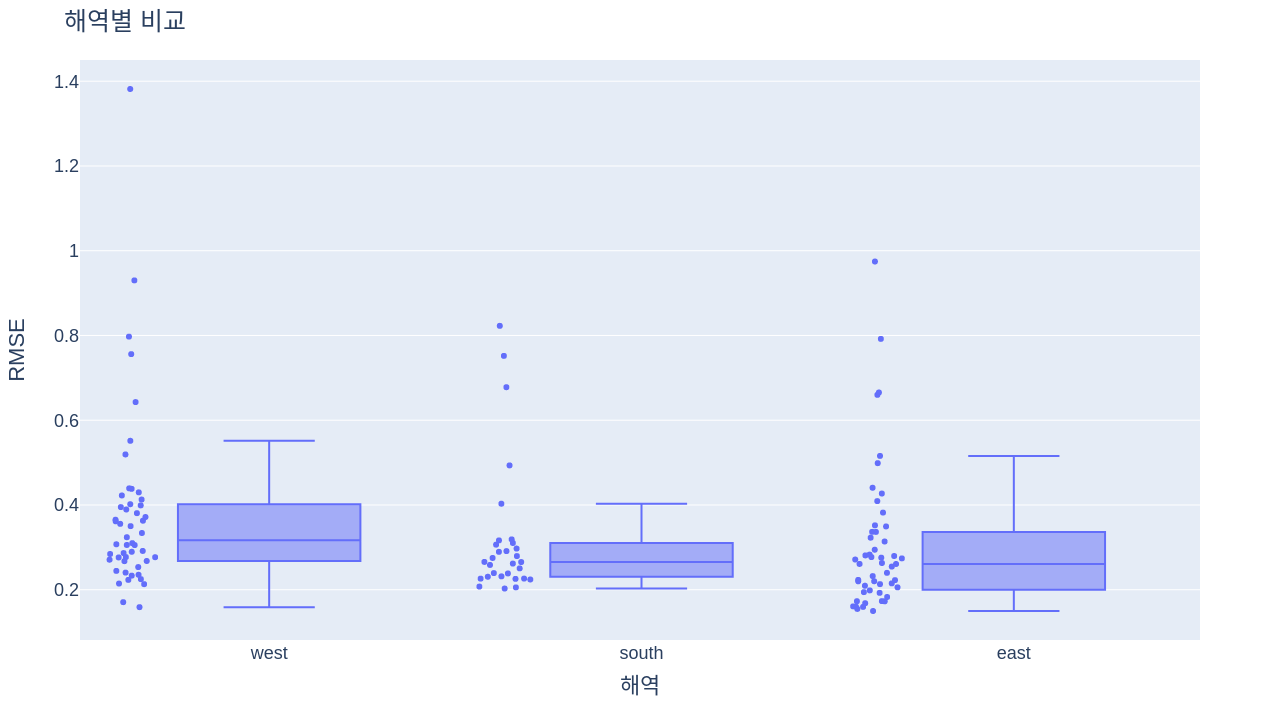
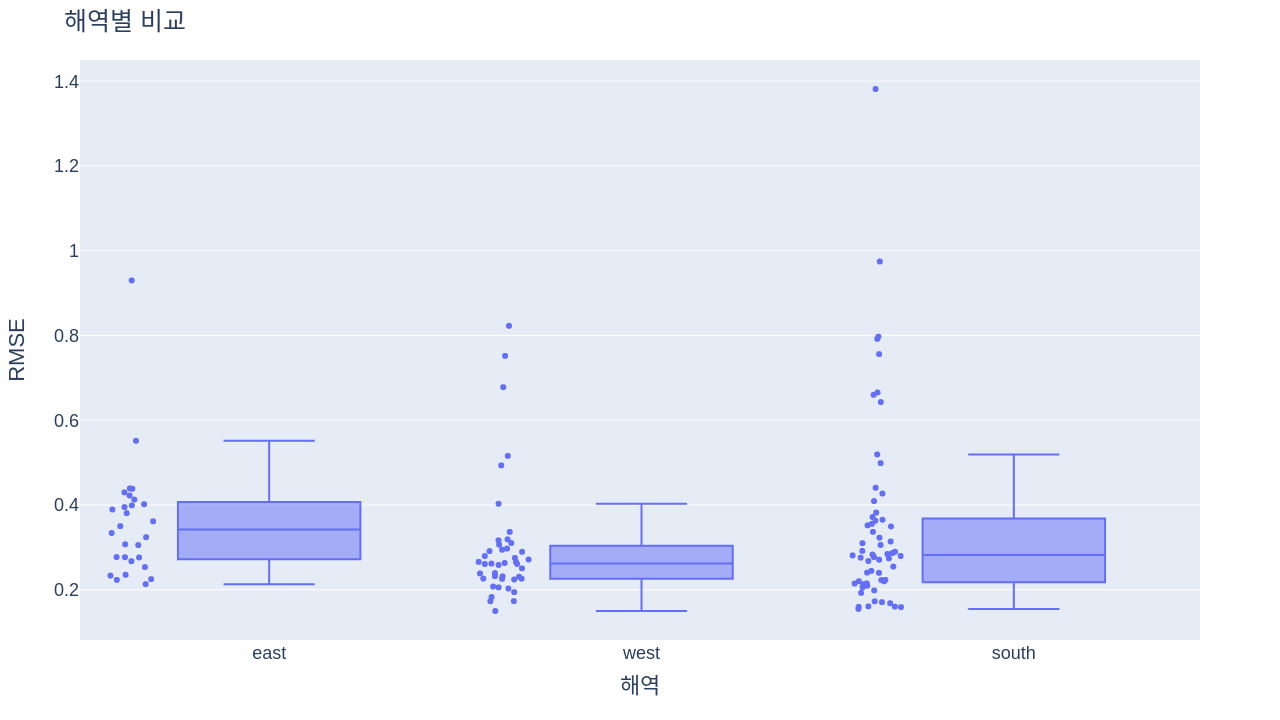
update plotting script task/stemgnn/step4

diff --git a/task/stemgnn/step4_plot.py b/task/stemgnn/step4_plot.py
@@ -26,6 +26,10 @@ import plotly.express as px
 import plotly.graph_objects as go
 from omegaconf import OmegaConf
 from sklearn.metrics import *
+import geopandas as gpd
+from libpysal.weights.contiguity import Queen
+from libpysal import examples
+import splot
 
 cfg = OmegaConf.load('conf/config.yml')
 
@@ -60,15 +64,15 @@ gdf = (
     .assign(ssid = lambda df: df.stype + '_' + df.sid)
 )
 
-kmeans = KMeans(n_clusters=3, random_state=0).fit(
-    gdf[['Latitude', 'Longitude']]
-)
-gdf['label'] = kmeans.labels_
-gdf['label'] = gdf['label'].map({
-    0: 'west',
-    1: 'south',
-    2: 'east'
-})
+# kmeans = KMeans(n_clusters=3, random_state=0).fit(
+#     gdf[['Latitude', 'Longitude']]
+# )
+# gdf['sea_area'] = kmeans.labels_
+# gdf['sea_area'] = gdf['sea_area'].map({
+#     0: 'west',
+#     1: 'south',
+#     2: 'east'
+# })
 
 
 ssid_rmse = (
@@ -77,13 +81,12 @@ ssid_rmse = (
     .reset_index()
     .rename(columns=dict(index='ssid')))
 
-
 ssid_rmse = ssid_rmse.merge(gdf, how='left', on ='ssid').dropna()
 
 # fig = px.violin(pdf, y="vis_khoa", x="vis_sijung",  box=True, points="outliers")
 fig = px.box(
     ssid_rmse,
-    x="label", 
+    x="sea_area", 
     y="rmse",
     width=1280, height=720,
     points="all",
@@ -120,32 +123,59 @@ fig.write_image(
 #  시계열 그림
 # morans plot
 
-ssid_rmse.groupby('label')['ssid'].sample(1).tolist()
+selected_ssids = ssid_rmse.groupby('sea_area')['ssid'].sample(1,random_state=0).tolist()
+for ssid in selected_ssids:
 
-value_vars = [renamer[x] for x in value_vars]
-pdf = pdf.rename(columns=renamer)
-melt_align = pd.melt(pdf, id_vars=['timestamp'], value_vars=value_vars)
-fig = px.scatter(melt_align, x="timestamp", y="value", color='variable', width=1280, height=720)
-fig.update_layout(
-    title=f'{station} {month.strftime("%Y-%m")}',
-    xaxis_title="시간",
-    yaxis_title="시정(m)",
-    legend_title="구분",
-    font=dict(
-        # family="Courier New, monospace",
-        size=18,
-        # color="RebeccaPurple"
+    merge = pd.concat(
+        [
+            pred[ssid].to_frame(name='pred'),
+        target[ssid].to_frame(name='target')
+        ], axis=1)
+
+    merge.index +=  1 # day starts with 1
+    merge.index += best_cfg.args.window_size # first days  skipped
+    merge.index.name = 'dayofyear'
+    melt = pd.melt(
+        merge.reset_index(),
+        id_vars = ['dayofyear'],
+        value_vars = ['pred', 'target']
     )
-)
 
-tickvals = [500,  1000,   3000, 10000,20000]
-fig.update_yaxes(tickvals=tickvals)
-xmin = melt_align.timestamp.min().normalize() + pd.offsets.MonthBegin() - pd.offsets.MonthBegin()
-xmax = (melt_align.timestamp.min() + pd.offsets.MonthEnd()).normalize().replace(hour=23, minute=59)
-fig.update_xaxes(range=[xmin, xmax])    
+    fig = px.scatter(
+        melt,
+        x="dayofyear",
+        y="value",
+        color='variable',
+         width=1280, height=720)
+    
+    fig.update_layout(
+        title=f'{ssid}',
+        xaxis_title="dayofyear",
+        yaxis_title="SST",
+        legend_title="구분",
+        font=dict(
+            # family="Courier New, monospace",
+            size=18,
+            # color="RebeccaPurple"
+        )
+    )
+    fig.show()
 
-fig.add_hline(y=1000, line_width=3, line_dash="dash", line_color="green")
-fig.add_hline(y=3000, line_width=3, line_dash="dash", line_color="green")
+    info = gdf[gdf.ssid==ssid].T.squeeze()
+    fig.write_image(
+        # report_dir / f'box_plot.svg'    
+        report_dir / f'{info.sea_area}_{info.sname}_timeseries.png'    
+        )
+    
+
+
+# tickvals = [500,  1000,   3000, 10000,20000]
+# fig.update_yaxes(tickvals=tickvals)
+# xmin = melt_align.timestamp.min().normalize() + pd.offsets.MonthBegin() - pd.offsets.MonthBegin()
+# xmax = (melt_align.timestamp.min() + pd.offsets.MonthEnd()).normalize().replace(hour=23, minute=59)
+# fig.update_xaxes(range=[xmin, xmax])    
+# fig.add_hline(y=1000, line_width=3, line_dash="dash", line_color="green")
+# fig.add_hline(y=3000, line_width=3, line_dash="dash", line_color="green")
 
 # rect_li = (
 #     melt_align
@@ -156,16 +186,16 @@ fig.add_hline(y=3000, line_width=3, line_dash="dash", line_color="green")
 #     .pipe(lambda ser: ser[ser<1000])
 #     .index
 # )
-rect_li = pdf[pdf.Khoa.le(1000)].timestamp.dt.to_period('d').dt.to_timestamp().drop_duplicates()
+# rect_li = pdf[pdf.Khoa.le(1000)].timestamp.dt.to_period('d').dt.to_timestamp().drop_duplicates()
 
-for rect in rect_li:
-    # x0, x1 = rect, rect + pd.Timedelta(hours=1)
-    x0, x1 = rect, rect + pd.Timedelta(days=1)
-    # fig.add_hrect(x0=x0, x1=x1, y0=0, y1=1000, line_width=0, fillcolor="red", )
-    # fig.add_vrect(x0=x0, x1=x1, fillcolor="red", opacity=0.2, line_width=0.5)
-    fig.add_vrect(x0=x0, x1=x1, fillcolor="red", opacity=0.2, line_width=0.5,
-                annotation_text=rect.strftime('%d일'), annotation_position="top left",
-                )
+# for rect in rect_li:
+#     # x0, x1 = rect, rect + pd.Timedelta(hours=1)
+#     x0, x1 = rect, rect + pd.Timedelta(days=1)
+#     # fig.add_hrect(x0=x0, x1=x1, y0=0, y1=1000, line_width=0, fillcolor="red", )
+#     # fig.add_vrect(x0=x0, x1=x1, fillcolor="red", opacity=0.2, line_width=0.5)
+#     fig.add_vrect(x0=x0, x1=x1, fillcolor="red", opacity=0.2, line_width=0.5,
+#                 annotation_text=rect.strftime('%d일'), annotation_position="top left",
+#                 )
         
     # fig.add_shape(
     #     type="rect",
@@ -181,10 +211,35 @@ for rect in rect_li:
     #     opacity=0.5,
     # )
 
-dest = out_dir / f'monthly_{station}_{month.strftime("%Y%m")}.html'
-# fig.write_html(dest)
-fig.write_image(dest.with_suffix('.png'))
+    # dest = out_dir / f'monthly_{station}_{month.strftime("%Y%m")}.html'
+    # # fig.write_html(dest)
+    # fig.write_image(dest.with_suffix('.png'))
 
 
     # px.scatter category_orders, range_x, range_y
+
+
+# make morans plot
+
+gdf = gpd.GeoDataFrame(
+    gdf, geometry=gpd.points_from_xy(gdf.Longitude, gdf.Latitude))
+
+
+link_to_data = examples.get_path('Guerry.shp')
+gdf = gpd.read_file(link_to_data)
+
+
+
+y = gdf['Donatns'].values
+w = Queen.from_dataframe(gdf)
+w.transform = 'r'
+
+
+w = Queen.from_dataframe(gdf)
+moran = Moran(y, w)
+moran.I
+
+
+fig, ax = moran_scatterplot(moran, aspect_equal=True)
+plt.show()
 

diff --git a/prepare/merge_data_from_raw_files.py b/prepare/merge_data_from_raw_files.py
@@ -13,25 +13,25 @@ from omegaconf import OmegaConf
 import dask.dataframe as dd
 from dask import delayed
 
-cfg = OmegaConf.load('config.yml')
+
+"""
+아래 돌릴려면 raw datafile을 다운받아야함.
+steps:
+
+- aws configure
+    AWS Access Key ID [None]: seafog
+    AWS Secret Access Key [None]: defaultpassword
+    Default region name [None]: ENTER
+    Default output format [None]: ENTER
+
+- aws configure set default.s3.signature_version s3v4
+- aws --endpoint-url http://oldgpu:9000 s3 cp s3://poster/data  data --recursive
+"""
+
+cfg = OmegaConf.load('conf/config.yml')
 buoy_dir = Path(cfg.catalogue.buoy_dir)
 fargo_dir = Path(cfg.catalogue.fargo_dir)
 koofs_path = Path(cfg.catalogue.koofs_path)
-
-
-fig_dir = Path(
-    'data/fig'
-)
-
-# sst = pd.read_parquet(cfg.catalogue.dataset_path)
-# ops = ['min', 'mean', 'max']
-# for op in ops:
-#     sst.describe().loc[op].plot.hist().figure.savefig(fig_dir / f'{op}.png')
-
-# visual testing
-# sst.loc[:,sst.max().gt(50)].plot(subplots=True, logy=True).savefig(fig_dir / 'trash.png')
-
-
 
 files = [x for x in buoy_dir.glob('**/*.zip') if x.name.startswith('MARINE_BUOY')]
 
@@ -106,7 +106,7 @@ invalid_sid_mask = pivot.isna().mean().gt(0.3)
 pivot = pivot.loc[:, ~invalid_sid_mask]
 msno.matrix(pivot, freq='MS')
 # pivot.isna().mean().plot.hist(bins=100)
-pivot.to_csv(cfg.catalogue.dataset_path)
+pivot.to_csv(cfg.catalogue.clean)
 
 # how to imputation 
 # feature propagation

diff --git a/readme.md b/readme.md
@@ -24,6 +24,7 @@ pytorch geometric temporal 제공 모델
 - (추가)ostia 연안 기준 pixel
 2018~2021년 12시간 간격 자료
 
+
 # 환경 설치
 steps:
     - make install
